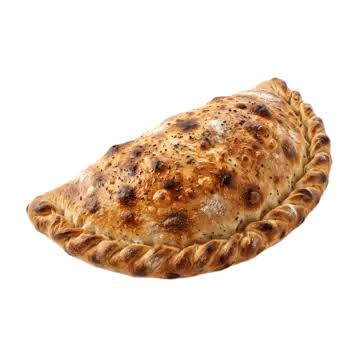
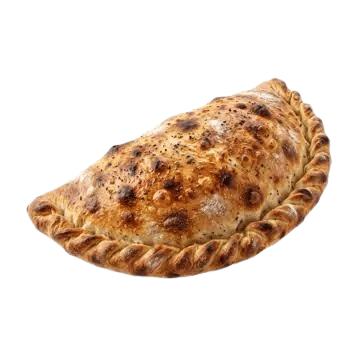
aaa
aaa

diff --git a/src/app/model/produto.ts b/src/app/model/produto.ts
@@ -158,7 +158,7 @@ export const produtos: Produto[] = [
     nome: 'Croassant - Frango',
     descricao: 'Croassant sabor frango 131g.',
     preco: 7.00,
-    imagem: 'imgs/Coassant.png'
+    imagem: 'imgs/croassant.png'
   },
 
 ];
